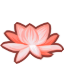
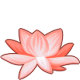
Make the lotus cursor a bit bigger with a finer outline (#57)
- 40px instead of 32px (80px copies for high-resolution screens).
- Thinner outline: 1px at the 2x size (was 2px) and a faint half-strength
  1px at 1x, so the petal colours lead and the border just defines the edge.
- Hotspot moves to 10 14 (still the tip of the upper-left petal).

Claude-Session: https://claude.ai/code/session_01EG7HUUsZmEBRYkfLY8ALna

Changed region(s): [[0.0, 0.3438, 1.0, 1.0], [0.625, 0.7812, 0.6562, 0.8125], [0.5938, 0.5312, 0.625, 0.5625]]

diff --git a/site-cursor.css b/site-cursor.css
@@ -1,22 +1,22 @@
 /* =========================================================================
-   Site cursor — the coral-pink lotus artwork with a thin dark outline.
+   Site cursor — the coral-pink lotus artwork (40px) with a fine dark outline.
    The tip of its upper-left petal is the pointer. Over anything clickable it
    switches to the same lotus in gold.
-   Each comes in two sizes: 32px (cursor-lotus.png) and a 64px copy
+   Each comes in two sizes: 40px (cursor-lotus.png) and an 80px copy
    (cursor-lotus-2x.png) that high-resolution screens use so it stays sharp.
    Browsers that don't understand image-set() use the first line; touch
    devices have no cursor; if an image can't load, the normal cursor shows.
    ========================================================================= */
 html, body {
-  cursor: url("cursor-lotus.png") 8 11, auto;
-  cursor: -webkit-image-set(url("cursor-lotus.png") 1x, url("cursor-lotus-2x.png") 2x) 8 11, auto;
-  cursor: image-set(url("cursor-lotus.png") 1x, url("cursor-lotus-2x.png") 2x) 8 11, auto;
+  cursor: url("cursor-lotus.png") 10 14, auto;
+  cursor: -webkit-image-set(url("cursor-lotus.png") 1x, url("cursor-lotus-2x.png") 2x) 10 14, auto;
+  cursor: image-set(url("cursor-lotus.png") 1x, url("cursor-lotus-2x.png") 2x) 10 14, auto;
 }
 /* Clickable things: the gold lotus. !important because several components
    set "cursor: pointer" on their own classes. */
 a, button, summary, label[for], select, [role="button"],
 .lantern, .nav-toggle, .filter-btn, .gbtn, .crbtn, .tm-phone {
-  cursor: url("cursor-lotus-gold.png") 8 11, pointer !important;
-  cursor: -webkit-image-set(url("cursor-lotus-gold.png") 1x, url("cursor-lotus-gold-2x.png") 2x) 8 11, pointer !important;
-  cursor: image-set(url("cursor-lotus-gold.png") 1x, url("cursor-lotus-gold-2x.png") 2x) 8 11, pointer !important;
+  cursor: url("cursor-lotus-gold.png") 10 14, pointer !important;
+  cursor: -webkit-image-set(url("cursor-lotus-gold.png") 1x, url("cursor-lotus-gold-2x.png") 2x) 10 14, pointer !important;
+  cursor: image-set(url("cursor-lotus-gold.png") 1x, url("cursor-lotus-gold-2x.png") 2x) 10 14, pointer !important;
 }
